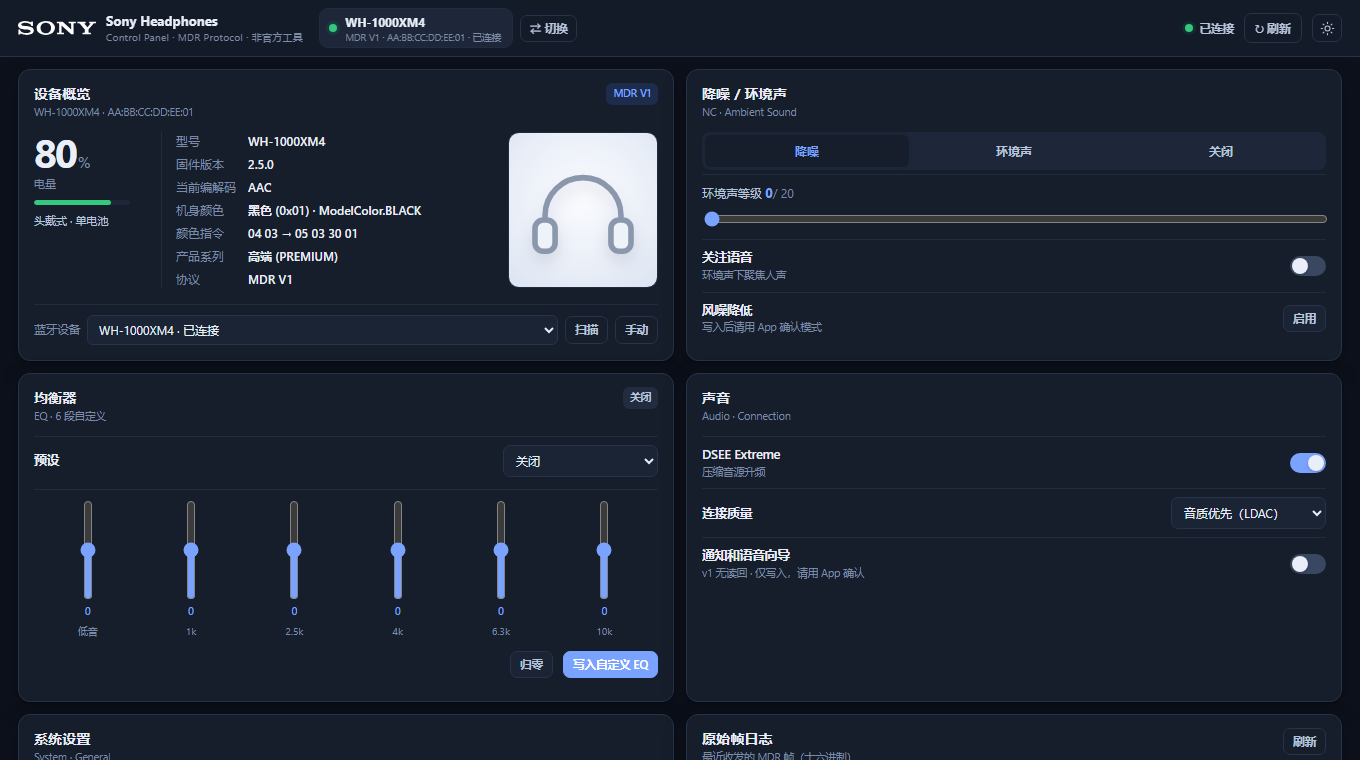
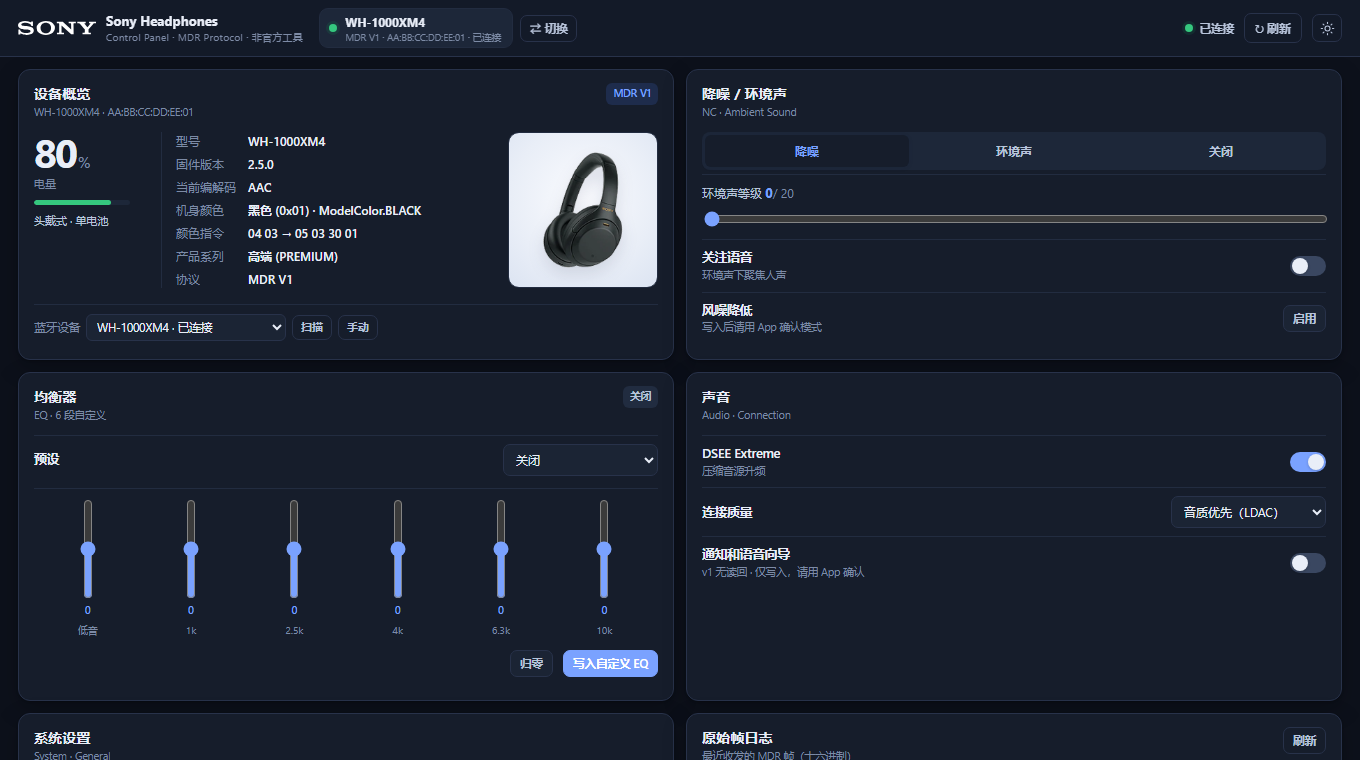
style: keep the device picker to one field's width
The picker was stretching across the whole card and read as a separate bar
rather than another row of the device summary. It is now a fixed 200 px select
with the two buttons right after it, so the row ends roughly where the value
column does.

Screenshots re-shot with a locally supplied product render (Sony artwork, not
redistributed) and masked addresses.

diff --git a/app/style.css b/app/style.css
@@ -143,14 +143,16 @@ html:not([data-theme="dark"]) .ico-sun{display:none}
   width:100%;max-width:172px;height:134px;object-fit:contain;
   filter:drop-shadow(0 8px 8px rgba(30,45,80,.12));
 }
-.bt-row{grid-column:1/-1;display:flex;align-items:center;gap:7px;border-top:1px solid var(--line2);padding-top:10px;margin-top:2px}
-.bt-row label{font-size:11.5px;color:var(--muted);white-space:nowrap}
+.bt-row{grid-column:1/-1;display:flex;align-items:center;gap:6px;border-top:1px solid var(--line2);padding-top:9px;margin-top:2px}
+.bt-row label{font-size:11.5px;color:var(--muted);white-space:nowrap;min-width:44px}
 /* The picker replaces typing a 17-character address: it lists what Windows
-   already has paired, with the detected model and link state. */
+   already has paired, with the detected model and link state. Kept to a fixed
+   200 px so the row reads as one more field instead of a full-width bar. */
 .bt-row select{
-  flex:1;min-width:0;border:1px solid var(--line);border-radius:6px;padding:5px 7px;
-  font-size:12px;background:var(--input);color:var(--ink);outline:none;
+  flex:0 0 200px;width:200px;min-width:0;border:1px solid var(--line);border-radius:6px;
+  padding:4px 6px;font-size:11.5px;background:var(--input);color:var(--ink);outline:none;
 }
+.bt-row .btn.small{padding:3px 8px;font-size:11px}
 .bt-row select:focus{border-color:var(--primary)}
 .mac-row{grid-column:1/-1;display:flex;align-items:center;gap:7px;border-top:1px solid var(--line2);padding-top:10px;margin-top:2px}
 .mac-row label{font-size:11.5px;color:var(--muted);white-space:nowrap}

diff --git a/README.md b/README.md
@@ -38,8 +38,9 @@
 <tr><td align="center">亮色</td><td align="center">深色</td></tr>
 </table>
 
-截图里的耳机图形是内置的占位图（仓库不附带 Sony 官方素材，见下文「刻意没有放进仓库的内容」），
-界面上的蓝牙地址也是占位值。
+截图里的耳机产品图是本机自行放进 `app/assets/` 的官方渲染图（版权归 Sony，仓库不附带，
+见下文「刻意没有放进仓库的内容」）；没有放图时界面会退化为内置的中性占位图形。
+界面上的蓝牙地址为占位值。
 
 
 ## 快速开始
